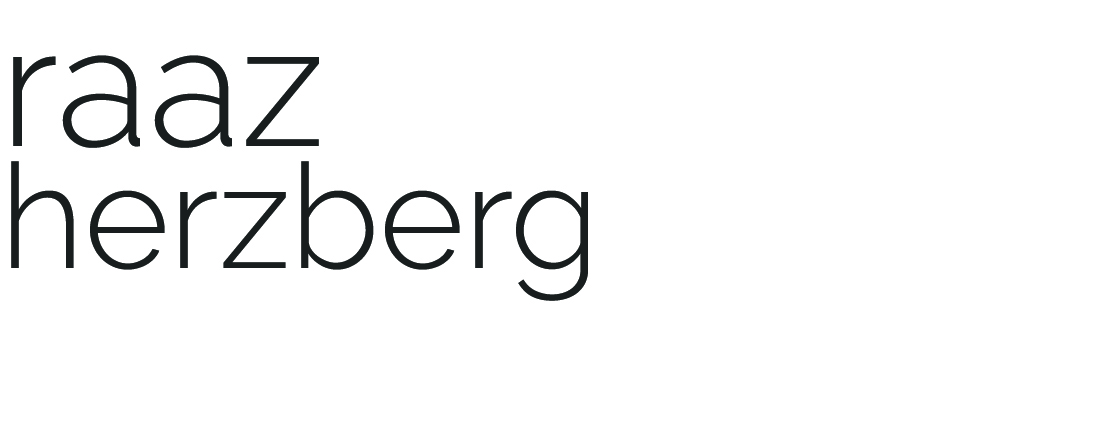
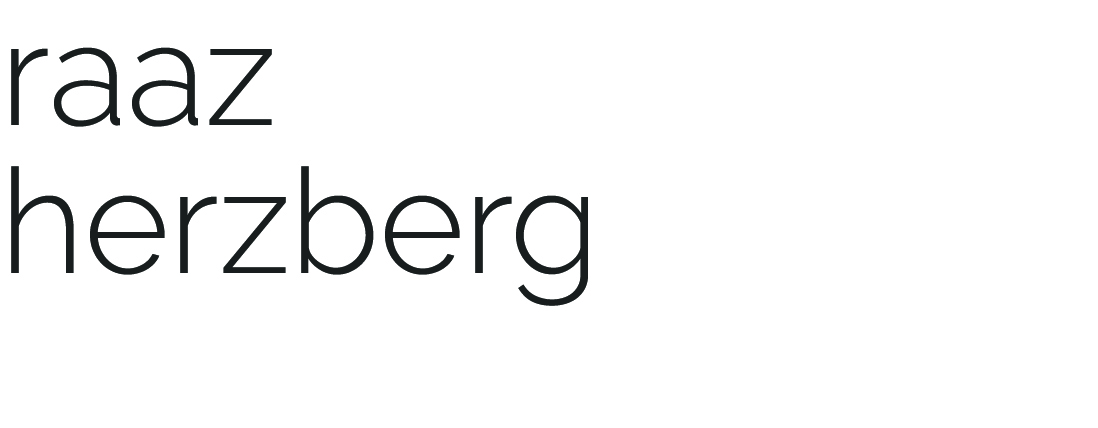
7

diff --git a/index.html b/index.html
@@ -47,7 +47,7 @@
 		<div class="site_header">
 			<div class="header_image">
 				<a href="https://raazherzberg.github.io/" rel="show_index">
-					<img src="header.jpg"  height="85" width="550"  />
+					<img src="header.jpg"  height="95" width="250"  />
 				</a>
 			</div>
 
